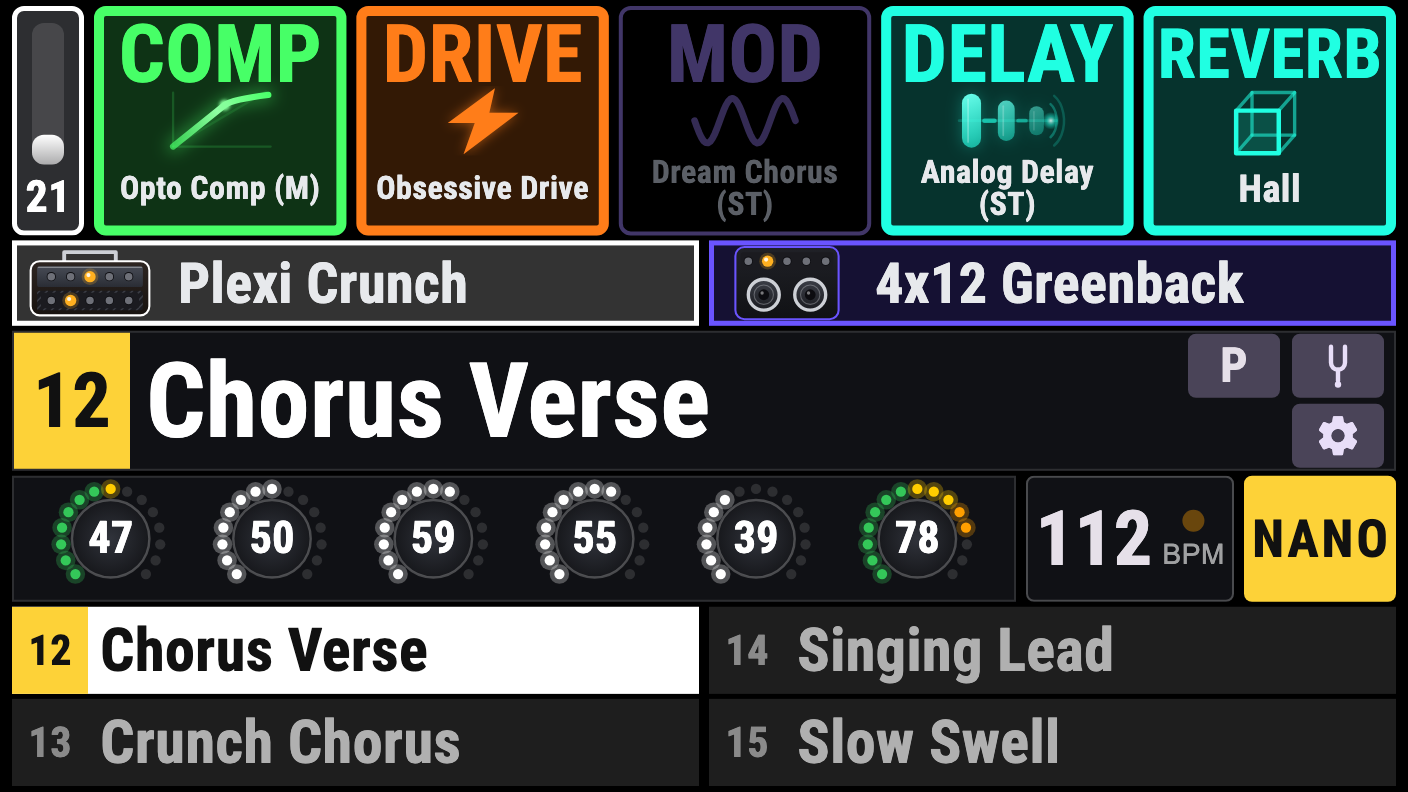
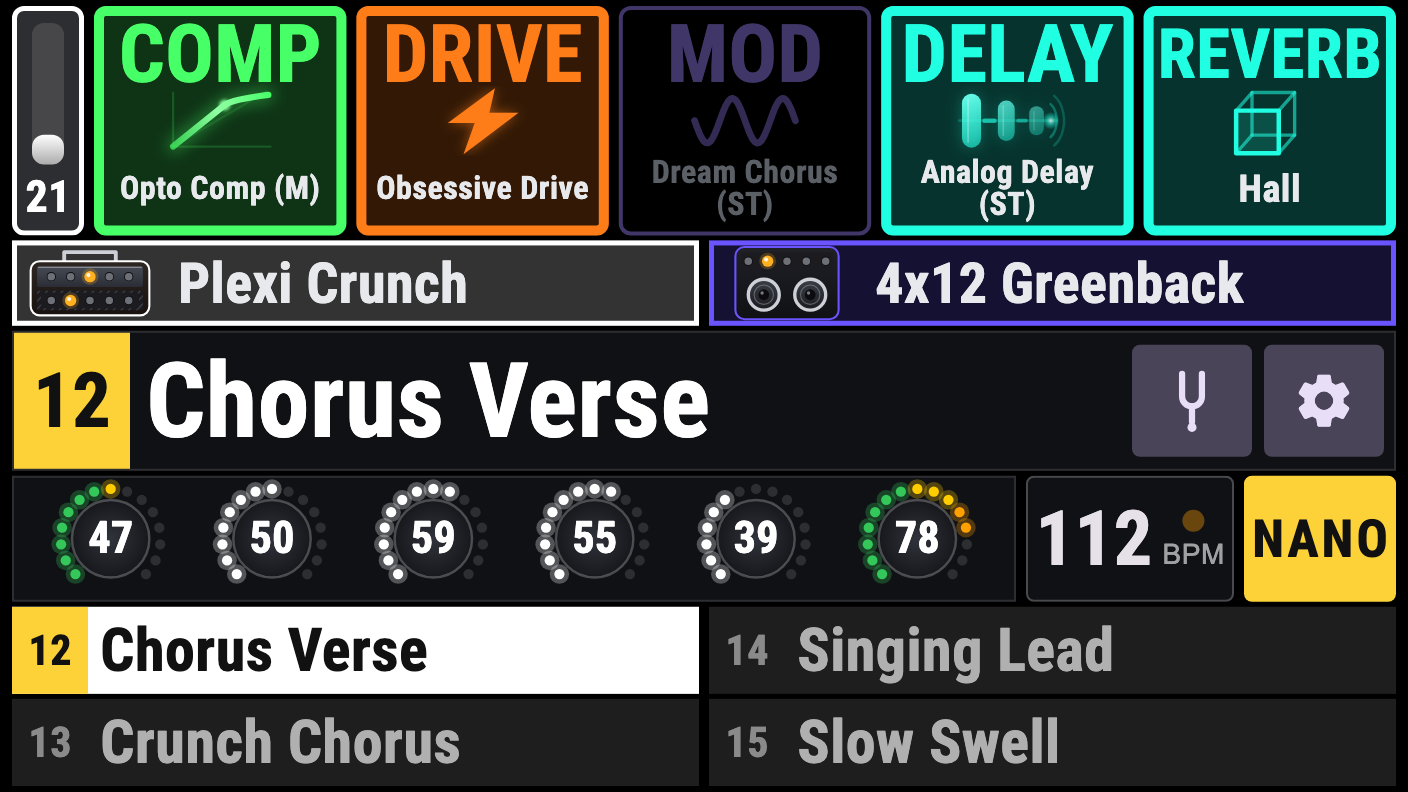
Screens of 2026-11-09: tuner and options only on the name bar, blue song tile, 1-second hold to save; two sentences on the control page

Changed region(s): [[0.7812, 0.4242, 1.0, 0.6061]]

diff --git a/index.html b/index.html
@@ -163,7 +163,8 @@
         <span class="tag">CONTROL</span>
         <h3>One screen to play</h3>
         <p>The gate, five effect slots, amp and cab, the preset name, six amp knobs, the tempo and the four footswitch slots. Tap to switch a
-        block on or off, long-press to edit it. Colours and sizes are chosen to read on a dark stage.</p>
+        block on or off, long-press to edit it. Changed something? The preset name turns amber: hold it for a second to save, and a
+        small &ldquo;Preset saved&rdquo; tells you it is done. Colours and sizes are chosen to read on a dark stage.</p>
       </div>
       <div class="card">
         <span class="tag violet">EDIT</span>
@@ -175,7 +176,8 @@
         <span class="tag green">PRESET &middot; BANK &middot; SONG</span>
         <h3>Three ways to move</h3>
         <p>Preset mode steps through presets. Bank mode puts four presets on the footswitches at once. <a href="#song-mode">Song mode</a> loads a whole
-        song: its four presets and its tempo. Swipe left or right below the effects to go to the next or previous one.</p>
+        song: its four presets and its tempo. Swipe left or right below the effects to go to the next or previous one, or tap the number tile
+        at the left of the name for the whole list of presets, banks or songs.</p>
       </div>
       <div class="card">
         <span class="tag white">TUNER</span>
